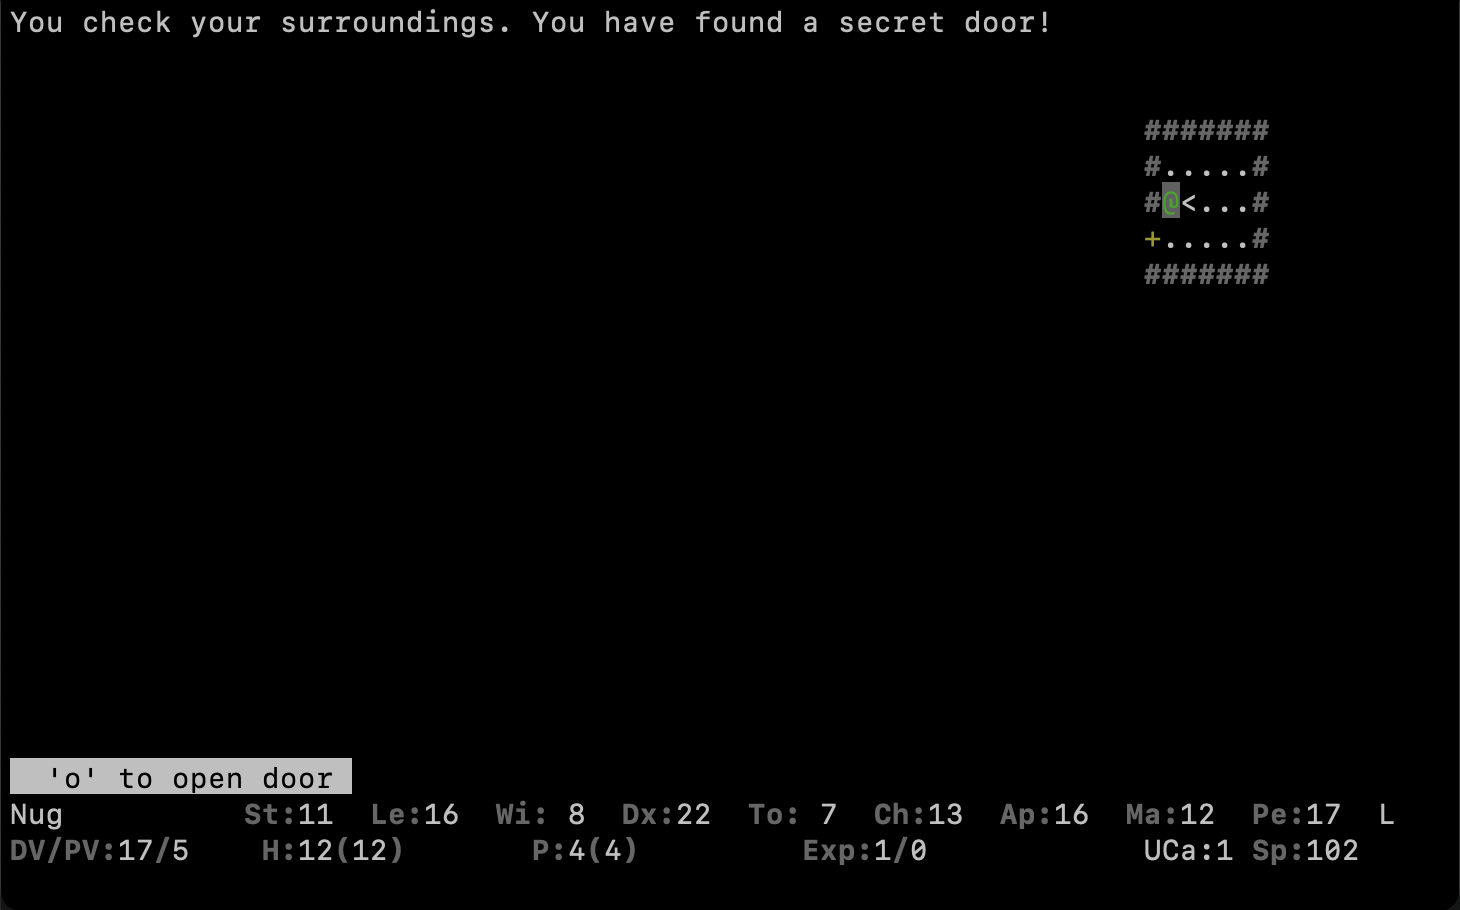
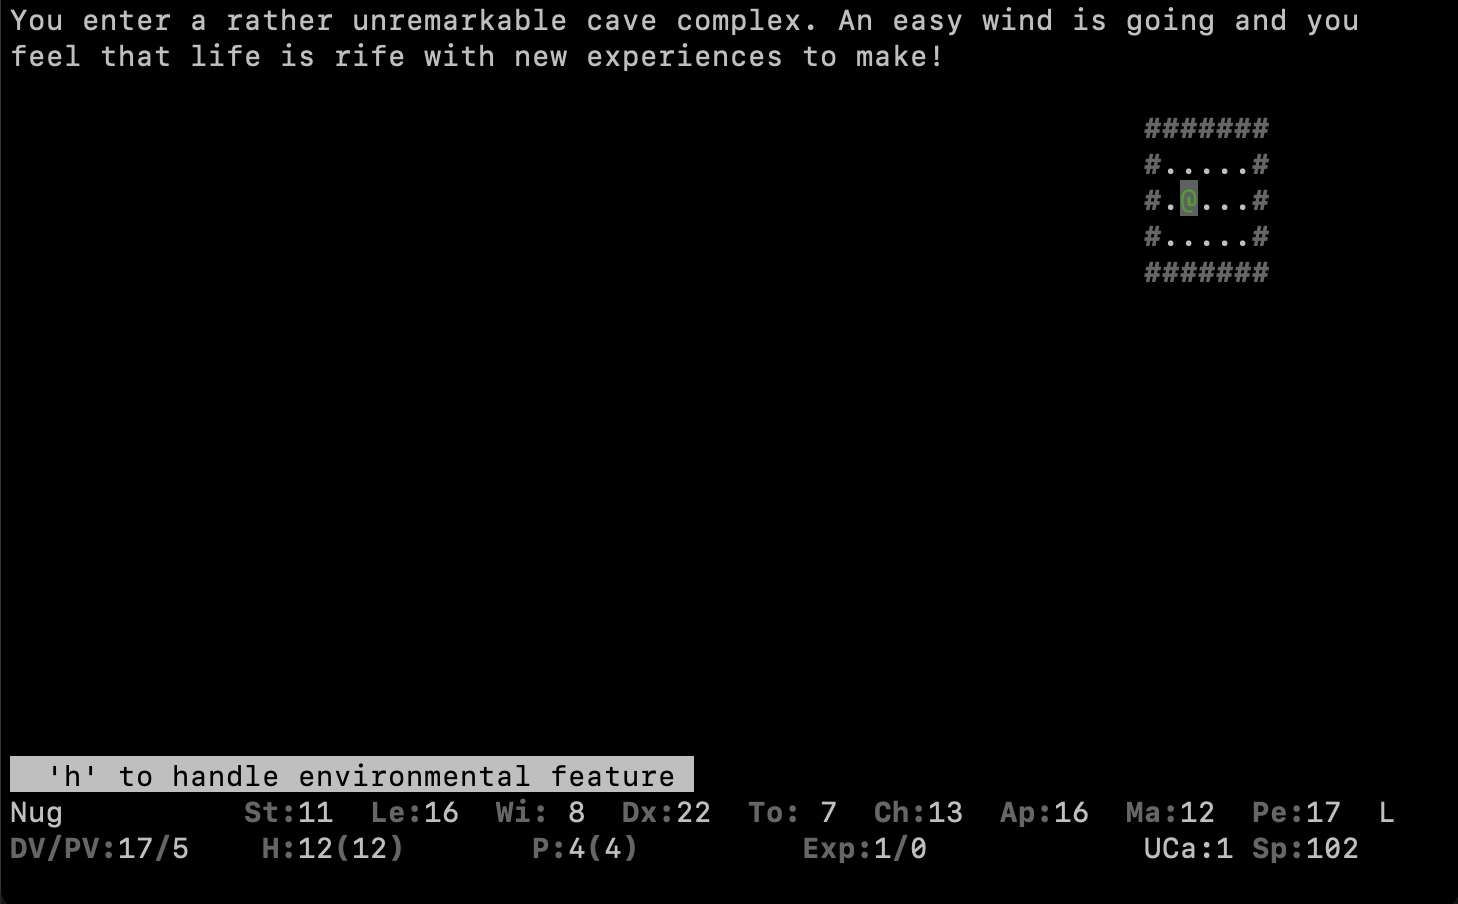
ADOM

diff --git a/content/posts/2026/08/21-adom.md b/content/posts/2026/08/21-adom.md
@@ -55,19 +55,27 @@ The **L** is for "Lawful," signifying that I'm on the side of everything that is
 
 The **DV** and **PV** represent "Defensive Value" and "Protection Value" and indicate your ability to avoid suffering damage and to minimize the damage suffered. **H** are "Hit Points", **P** are "Power Points" (used for magic), **Exp** for "Experience" (level/XP), a location code ("DrCh" means "Drakalor Chain"), and **Sp** for "Speed". This indicates how frequently you can act. With a speed of 102, I can act 102 times for every 100 times that a creature with speed 100 could act.
 
-The little Claude logo there is a cave. Being genre-savvy, I'll enter it.
+Now might be a good time to check our inventory:
 
-![An Unassuming Cave](/images/2026-08-21-adom-010.png)
+![My Inventory](/images/2026-08-21-adom-010.png)
+
+Elven chain mail (nice, seems more congruent with the "wealthy family" narrative than the "struggling apprentice" bit), a dagger, a long bow, and... 11 (eleven) arrows. Eleven arrows? For an archer? Ah, but we have the fletchery set.
+
+Here, stones is a unit of weight, so notice that with my basic equipment, I'm already carrying 1/3 of my capacity. Does not bode well.
+
+Back to the map - the little Claude logo there is a cave. Being genre-savvy, I'll enter it.
+
+![An Unassuming Cave](/images/2026-08-21-adom-011.png)
 
 So we're dropped into a cave with no apparent way to progress.
 
 Again, being genre-savvy, I'll **[s]earch** along the walls, at which point a door will appear.
 
-![An Unassuming Door](/images/2026-08-21-adom-011.png)
+![An Unassuming Door](/images/2026-08-21-adom-012.png)
 
 That's cool! Surely, a secret door will have something cool behind it.
 
-![A New Friend!](/images/2026-08-21-adom-012.png)
+![A New Friend!](/images/2026-08-21-adom-013.png)
 
 Oh, a goblin. How long have you been trapped behind a secret door in this cave, goblin? Don't worry, I'll help you escape!
 
@@ -75,10 +83,12 @@ Oh, a goblin. How long have you been trapped behind a secret door in this cave, 
 
 I'm not going to give a full blow-by-blow here. This is a classic roguelike: the bad guys are letters, the tactics are fairly basic, and you might be able to get some loot off their corpses.
 
-![One-Shotted the Goblin](/images/2026-08-21-adom-013.png)
+![One-Shotted the Goblin](/images/2026-08-21-adom-014.png)
 
-But the next one is fairly important, because this is where you start to see some real issues with the design of this game.
+But the next bit is fairly important, because this is where the real issues with the design of this game start to emerge.
 
-![A Rat Corpse](/images/2026-08-21-adom-014.png)
-![Tasty!](/images/2026-08-21-adom-014.png)
+![A Rat Corpse](/images/2026-08-21-adom-015.png)
+![Tasty!](/images/2026-08-21-adom-016.png)
+
+I fight a giant rat, overcome it, and eat it raw. High elves, in Ancardia, are built a little different from the elves you might've encountered in other fantasy games. But that rather surprising culinary experience isn't the whole issue; I'll come back to this later.
 
